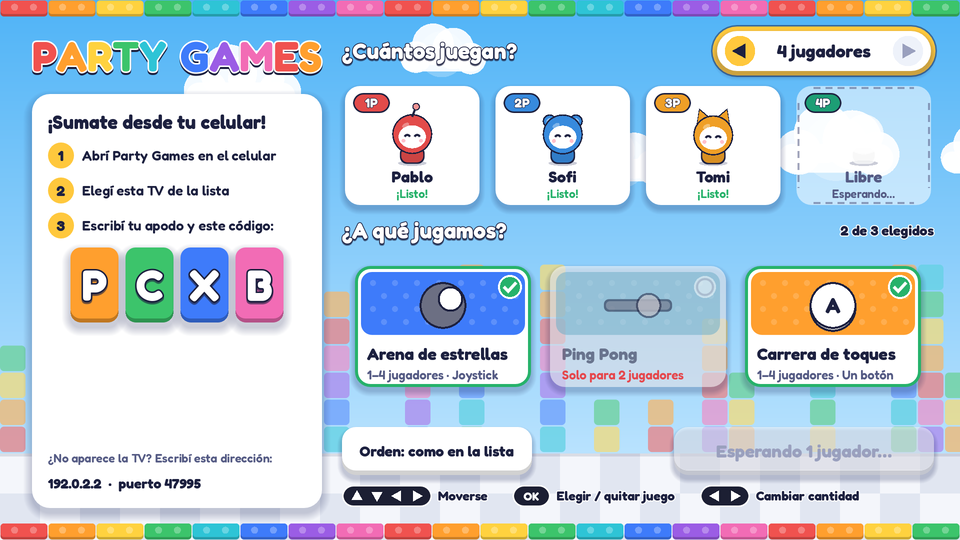
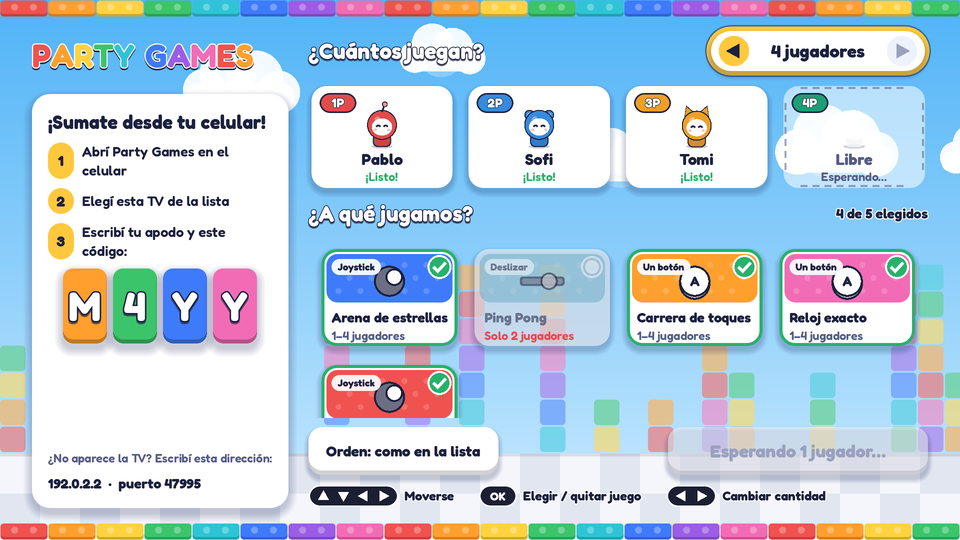
Lobby compacto para 5 juegos y capturas actualizadas
- Grilla de 4 columnas con tarjetas más bajas; el tipo de control pasa a
  una etiqueta sobre la ilustración y los títulos se leen completos
- Columna de "unirse", logo, código y lugares de jugador más compactos
  para que todo entre en 1920×1080 con los márgenes de overscan
- docs/img regenerado: Reloj exacto, Esquivar y el resultado en el celular
- README y ROADMAP: 5 minijuegos, 390 verificaciones

Claude-Session: https://claude.ai/code/session_016xnHVUnW38TmAZSdvZGH7C

diff --git a/README.md b/README.md
@@ -6,10 +6,12 @@ Juegos cortos para **1 a 4 jugadores en el sillón**: la **TV es la pantalla** y
 |---|---|
 | ![Lobby: cuántos juegan y qué juegos entran](docs/img/lobby_full.png) | ![Resumen de cada jugador al terminar un minijuego](docs/img/round_summary.png) |
 | ![Arena de estrellas](docs/img/arena.png) | ![Podio final](docs/img/final.png) |
+| ![Reloj exacto](docs/img/stop_clock.png) | ![Esquivar](docs/img/dodge.png) |
 
 | Celular (control) | |
 |---|---|
 | ![Pantalla para unirse](docs/img/ctrl_join.png) | ![Control con joystick](docs/img/ctrl_joy.png) |
+| ![Tu resultado en el celular durante el resumen](docs/img/ctrl_standing.png) | ![Esperando que empiece el juego](docs/img/ctrl_wait.png) |
 
 > Capturas generadas automáticamente desde el propio proyecto (host + controles reales conectados por WebSocket) con `tools/capture_screens.gd`. La CI las vuelve a generar en cada PR (artefacto `capturas`).
 
@@ -19,7 +21,7 @@ Juegos cortos para **1 a 4 jugadores en el sillón**: la **TV es la pantalla** y
 
 - Conexión TV ↔ celulares por Wi-Fi local, con código de sala, reconexión automática y medición de latencia.
 - Descubrimiento automático de la TV en la red (con IP manual como respaldo).
-- **Modo competencia**: en el lobby se elige **cuántos juegan** (1–4) y **qué minijuegos entran**; después de cada juego, **resumen por jugador** con puesto, puntaje y puntos ganados; al final, **podio**. Puntos por posición (1° 100 · 2° 70 · 3° 50 · 4° 30).
+- **Modo competencia**: en el lobby se elige **cuántos juegan** (1–4) y **qué minijuegos entran**; después de cada juego, **resumen por jugador** con puesto, puntaje y puntos ganados; al final, **podio**. Puntos por posición (1° 100 · 2° 70 · 3° 50 · 4° 30). Cada celular muestra **su propio resultado** (puesto, puntos y total).
 - Minijuegos:
   - **Arena de estrellas** (1–4) · joystick
   - **Ping Pong** (2) · slider horizontal
@@ -28,7 +30,7 @@ Juegos cortos para **1 a 4 jugadores en el sillón**: la **TV es la pantalla** y
   - **Esquivar** (1–4) · joystick · caen bloques; el último en pie gana
 - Sistema visual propio: tipografía Fredoka, mascotas por jugador (distinguibles también sin color), marcadores hexagonales, fondos animados. Todo dibujado por código.
 - Toda la TV se maneja con el control remoto (D-pad), con menú de pausa en "Atrás".
-- 335 verificaciones automáticas (unitarias + integración real de red + flujo completo de la TV), compilación de todos los scripts y prueba de humo visual en CI.
+- 390 verificaciones automáticas (unitarias + integración real de red + flujo completo de la TV), compilación de todos los scripts y prueba de humo visual en CI.
 
 ## Probarlo en 2 minutos (en tu PC)
 

diff --git a/docs/ROADMAP.md b/docs/ROADMAP.md
@@ -14,7 +14,7 @@
 
 ## Fase 2 · Producto mínimo publicable
 - [ ] Identidad visual propia (arte, tipografía, sonidos) — *base lista: sistema visual, tipografía y mascotas por código ([ADR 0004](adr/0004-sistema-visual.md)); faltan arte final y sonidos*
-- [ ] 8–10 minijuegos; nuevos layouts: dos botones, tilt (acelerómetro)
+- [ ] 8–10 minijuegos (van 5: Arena, Ping Pong, Carrera, Reloj exacto, Esquivar); nuevos layouts: dos botones, tilt (acelerómetro)
 - [x] Modo competencia: elegir jugadores y juegos, resumen por ronda, podio ([ADR 0003](adr/0003-modo-competencia.md))
 - [x] Mostrar en el celular el puesto y los puntos propios durante el resumen (mensaje `standing`, ver [PROTOCOL](PROTOCOL.md))
 - [ ] Localización (es / en / pt)
